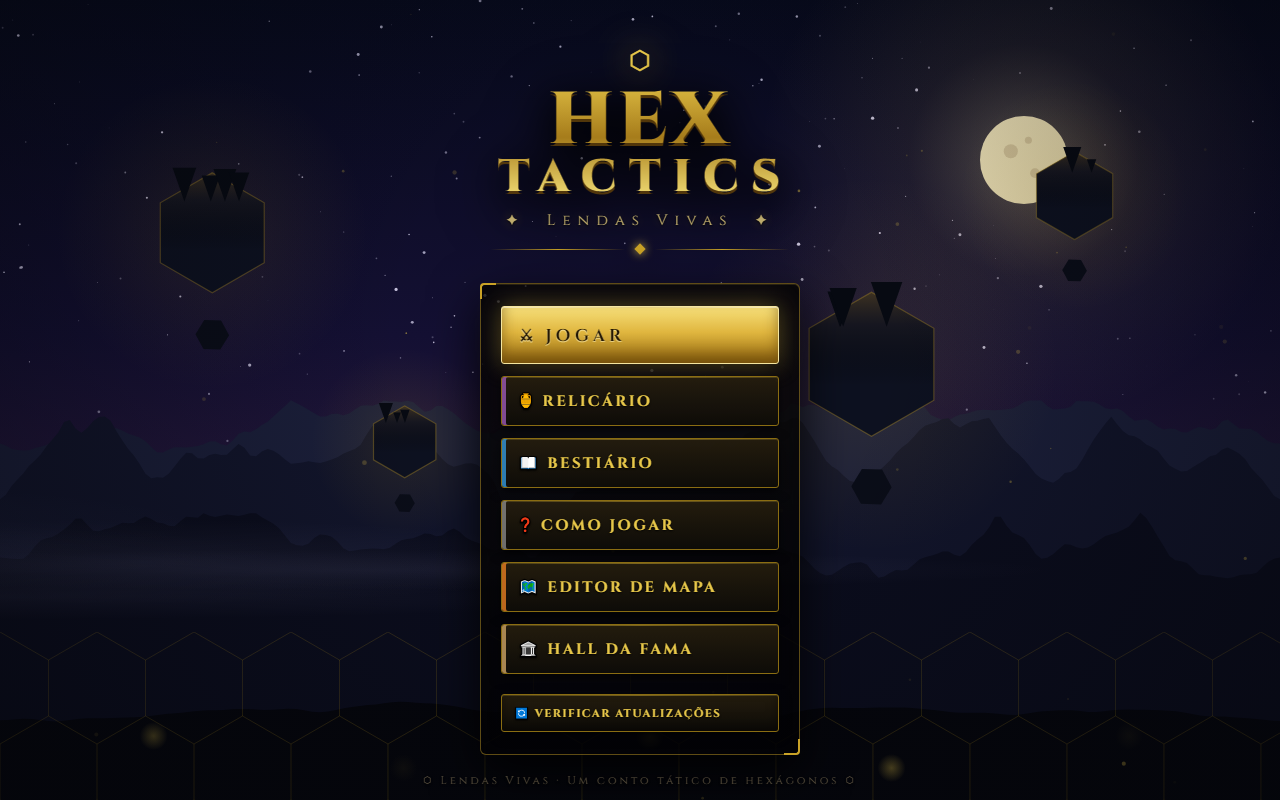
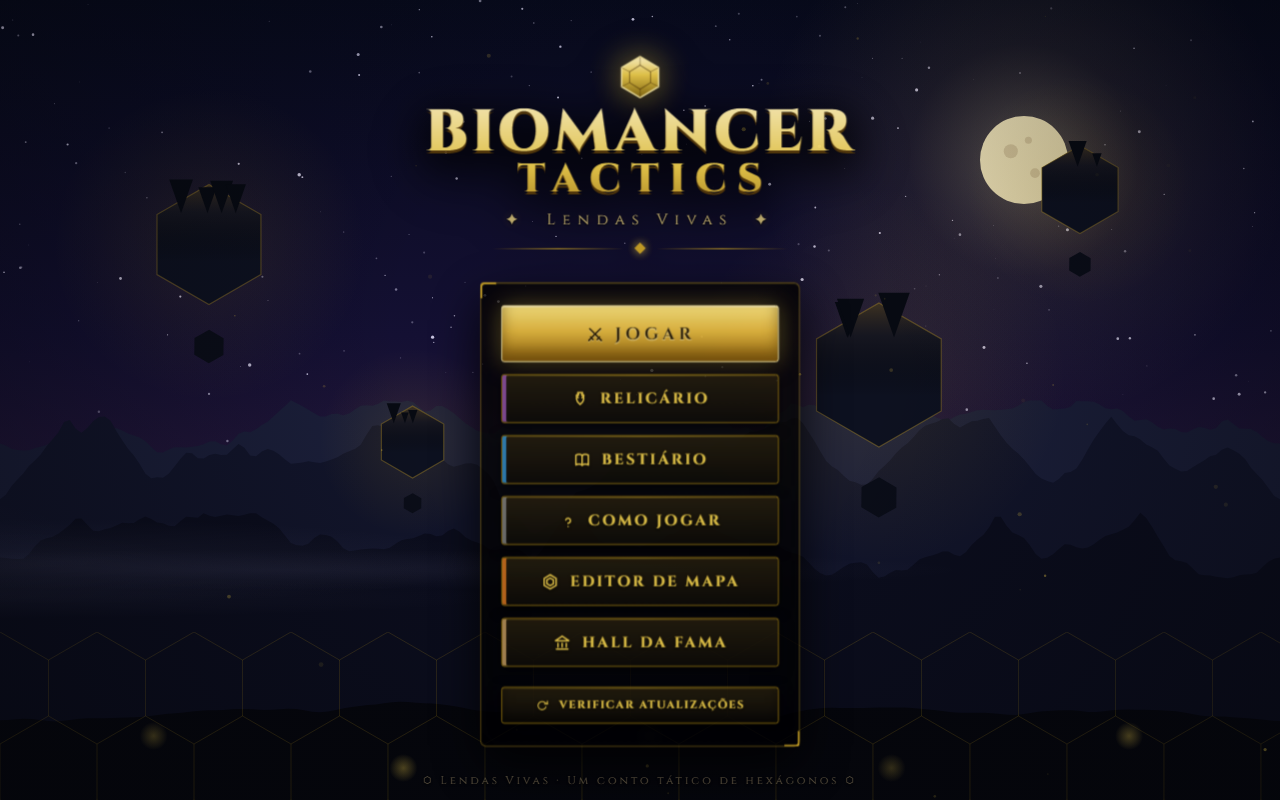
Troca dos emojis por ícones

diff --git a/index.html b/index.html
@@ -4,7 +4,7 @@
 <head>
     <meta charset="UTF-8">
     <meta name="viewport" content="width=device-width, initial-scale=1.0">
-    <title>Hex Tactics - Lendas Vivas</title>
+    <title>Biomancer Tactics - Lendas Vivas</title>
     <link rel="manifest" href="./manifest.json">
     <!-- Theme color for supported browsers; provide fallbacks for others -->
     <meta name="theme-color" content="#c9a227">
@@ -255,19 +255,70 @@
 
         <div class="mm-content">
             <div class="mm-logo">
-                <div class="mm-logo-gem">⬡</div>
-                <h1 class="mm-title">HEX<span class="mm-title-accent">TACTICS</span></h1>
+                <div class="mm-logo-gem">
+                    <svg viewBox="0 0 48 48" aria-hidden="true">
+                        <defs>
+                            <linearGradient id="gemGold" x1="0" y1="0" x2="0" y2="1">
+                                <stop offset="0" stop-color="#fff3c4" />
+                                <stop offset=".45" stop-color="#e8c84a" />
+                                <stop offset="1" stop-color="#8a6d12" />
+                            </linearGradient>
+                        </defs>
+                        <polygon points="24,3.5 42.5,14.5 42.5,33.5 24,44.5 5.5,33.5 5.5,14.5"
+                            fill="url(#gemGold)" stroke="#f5e6a0" stroke-width="1.5" />
+                        <polygon points="24,12 34.5,18.5 34.5,29.5 24,36 13.5,29.5 13.5,18.5"
+                            fill="none" stroke="rgba(70,45,5,.5)" stroke-width="1.2" />
+                        <path d="M24 3.5V12 M42.5 14.5L34.5 18.5 M42.5 33.5L34.5 29.5 M24 44.5V36 M5.5 33.5L13.5 29.5 M5.5 14.5L13.5 18.5"
+                            stroke="rgba(70,45,5,.4)" stroke-width="1" fill="none" />
+                    </svg>
+                </div>
+                <h1 class="mm-title">BIOMANCER<span class="mm-title-accent">TACTICS</span></h1>
                 <p class="mm-tagline">✦ &nbsp;Lendas Vivas&nbsp; ✦</p>
                 <div class="mm-rule"><i></i><b></b><i></i></div>
             </div>
 
             <div class="menu-box mm-menu-box">
-                <button id="btn-play" class="mm-btn mm-btn-primary">⚔ JOGAR</button>
-                <button id="btn-open-reliquary" class="mm-btn mm-btn-relic">🏺 Relicário</button>
-                <button id="btn-open-bestiary" class="mm-btn mm-btn-bestiary">📖 Bestiário</button>
-                <button id="btn-open-help" class="mm-btn mm-btn-help">❓ Como Jogar</button>
-                <button id="btn-map-editor" class="mm-btn mm-btn-editor">🗺 Editor de Mapa</button>
-                <button id="btn-hall-fame" class="mm-btn mm-btn-hall">🏛 Hall da Fama</button>
+                <button id="btn-play" class="mm-btn mm-btn-primary">
+                    <svg class="mm-ico" viewBox="0 0 24 24" aria-hidden="true">
+                        <path d="M4.5 19.5 16 8 M16 8l2.5-2.5 M6.5 15.5l3 3" />
+                        <path d="M19.5 19.5 8 8 M8 8 5.5 5.5 M17.5 15.5l-3 3" />
+                    </svg>
+                    <span>JOGAR</span>
+                </button>
+                <button id="btn-open-reliquary" class="mm-btn mm-btn-relic">
+                    <svg class="mm-ico" viewBox="0 0 24 24" aria-hidden="true">
+                        <path d="M9 4h6 M10 4v3.2C6.6 9 6.6 14.5 12 18.5 17.4 14.5 17.4 9 14 7.2V4" />
+                        <path d="M9.5 5.8C6.8 6.3 6.6 10 9.8 10.4 M14.5 5.8c2.7.5 2.9 4.2-.3 4.6" />
+                    </svg>
+                    <span>Relicário</span>
+                </button>
+                <button id="btn-open-bestiary" class="mm-btn mm-btn-bestiary">
+                    <svg class="mm-ico" viewBox="0 0 24 24" aria-hidden="true">
+                        <path d="M12 6.5C10 4.8 6.8 4.8 4.5 6.3V18c2.3-1.5 5.5-1.5 7.5.2 2-1.7 5.2-1.7 7.5-.2V6.3C17.2 4.8 14 4.8 12 6.5Z" />
+                        <path d="M12 6.5V18.2" />
+                    </svg>
+                    <span>Bestiário</span>
+                </button>
+                <button id="btn-open-help" class="mm-btn mm-btn-help">
+                    <svg class="mm-ico" viewBox="0 0 24 24" aria-hidden="true" transform="translate(0 1.5)">
+                        <path d="M9.1 9a3 3 0 0 1 5.8 1c0 2-3 3-3 3" />
+                        <path d="M12 17v.02" />
+                    </svg>
+                    <span>Como Jogar</span>
+                </button>
+                <button id="btn-map-editor" class="mm-btn mm-btn-editor">
+                    <svg class="mm-ico" viewBox="0 0 24 24" aria-hidden="true">
+                        <path d="M12 3.5 19.2 7.75v8.5L12 20.5 4.8 16.25v-8.5Z" />
+                        <path d="M12 7.5l3.9 2.25v4.5L12 16.5l-3.9-2.25v-4.5Z" />
+                    </svg>
+                    <span>Editor de Mapa</span>
+                </button>
+                <button id="btn-hall-fame" class="mm-btn mm-btn-hall">
+                    <svg class="mm-ico" viewBox="0 0 24 24" aria-hidden="true">
+                        <path d="M4 9.5 12 4l8 5.5 M4.5 9.5h15 M7 12.5V17 M12 12.5V17 M17 12.5V17 M5 19.5h14" />
+                    </svg>
+                    <span>Hall da Fama</span>
+                </button>
             </div>
         </div>
 

diff --git a/css/style.css b/css/style.css
@@ -2217,25 +2217,29 @@ button.btn-success {
 }
 
 .mm-logo-gem {
-    font-size: 30px;
-    color: var(--gold-light);
-    text-shadow: 0 0 22px rgba(232, 200, 74, .8);
+    width: 48px;
+    margin: 0 auto 2px;
     animation: mmGemFloat 4s ease-in-out infinite;
-    margin-bottom: 2px;
+}
+
+.mm-logo-gem svg {
+    display: block;
+    width: 100%;
+    height: auto;
 }
 
 @keyframes mmGemFloat {
-    0%, 100% { transform: translateY(0); text-shadow: 0 0 22px rgba(232, 200, 74, .8); }
-    50% { transform: translateY(-5px); text-shadow: 0 0 34px rgba(232, 200, 74, 1); }
+    0%, 100% { transform: translateY(0); filter: drop-shadow(0 0 14px rgba(232, 200, 74, .55)); }
+    50% { transform: translateY(-6px); filter: drop-shadow(0 0 28px rgba(232, 200, 74, .95)); }
 }
 
 .mm-title {
     font-family: Cinzel, serif;
     font-weight: 900;
-    font-size: clamp(3rem, 10vw, 4.6rem);
+    font-size: clamp(2.4rem, 8vw, 3.7rem);
     line-height: .95;
     margin: 0;
-    letter-spacing: 4px;
+    letter-spacing: 3px;
     display: flex;
     flex-direction: column;
     align-items: center;
@@ -2255,8 +2259,8 @@ button.btn-success {
 }
 
 .mm-title-accent {
-    font-size: .62em;
-    letter-spacing: 12px;
+    font-size: .68em;
+    letter-spacing: 10px;
     margin-left: 10px;
 }
 
@@ -2340,6 +2344,10 @@ button.btn-success {
 .mm-btn {
     position: relative;
     width: 100%;
+    display: flex;
+    align-items: center;
+    justify-content: center;
+    gap: 10px;
     font-family: Cinzel, serif;
     font-size: 15px;
     font-weight: 700;
@@ -2357,6 +2365,23 @@ button.btn-success {
         0 3px 12px rgba(0, 0, 0, .7),
         inset 0 1px 0 rgba(232, 200, 74, .18),
         inset 0 -6px 12px rgba(0, 0, 0, .35);
+}
+
+/* ícones desenhados (SVG linha) */
+.mm-ico {
+    flex: 0 0 auto;
+    width: 20px;
+    height: 20px;
+    stroke: currentColor;
+    fill: none;
+    stroke-width: 1.8;
+    stroke-linecap: round;
+    stroke-linejoin: round;
+    filter: drop-shadow(0 1px 1px rgba(0, 0, 0, .55));
+}
+
+.mm-btn-primary .mm-ico {
+    filter: drop-shadow(0 1px 0 rgba(255, 244, 190, .5));
 }
 
 .mm-btn:hover {

diff --git a/js/main.js b/js/main.js
@@ -17,8 +17,8 @@ document.addEventListener("DOMContentLoaded", () => {
     const menuContainer = document.querySelector('#main-menu .menu-box');
     if (menuContainer) {
         const updateBtn = document.createElement('button');
-        updateBtn.innerHTML = "🔄 Verificar Atualizações";
         updateBtn.className = 'mm-btn';
+        updateBtn.innerHTML = `<svg class="mm-ico" viewBox="0 0 24 24" style="width:14px;height:14px;" aria-hidden="true"><path d="M21 4v5h-5"/><path d="M18.5 14a7 7 0 1 1-1.6-7.2L21 8.6"/></svg><span>Verificar Atualizações</span>`;
         updateBtn.style.cssText = "font-size:11px;letter-spacing:1.5px;padding:10px 12px;margin-top:8px;";
 
         updateBtn.onclick = async () => {

diff --git a/README.md b/README.md
@@ -1,4 +1,4 @@
-## Hex Tactics - (nome provisório)
+## Biomancer Tactics
 
 ![HTML5](https://img.shields.io/badge/HTML5-E34F26?style=for-the-badge&logo=html5&logoColor=white)
 ![JavaScript](https://img.shields.io/badge/JavaScript-323330?style=for-the-badge&logo=javascript&logoColor=F7DF1E)
@@ -12,7 +12,7 @@ Um jogo de estratégia em turnos baseado em grid hexagonal rodando diretamente n
 
 ## Sobre o Jogo
 
-**Hex Tactics** combina táticas de tabuleiro com mecânicas de gerenciamento de exército e *Roguelite*. O jogador assume o controle de um Herói Líder com acesso a um Grimório de magias, devendo explorar mapas gerados dinamicamente, derrotar chefes e expandir seu reino e sua Box de criaturas.
+**Biomancer Tactics** combina táticas de tabuleiro com mecânicas de gerenciamento de exército e *Roguelite*. O jogador assume o controle de um Herói Líder com acesso a um Grimório de magias, devendo explorar mapas gerados dinamicamente, derrotar chefes e expandir seu reino e sua Box de criaturas.
 
 ### Modos de Jogo
 * **Modo Campanha:** Progressão contínua com sistema de saves. Ideal para planejar a expansão do seu Reino com calma.
